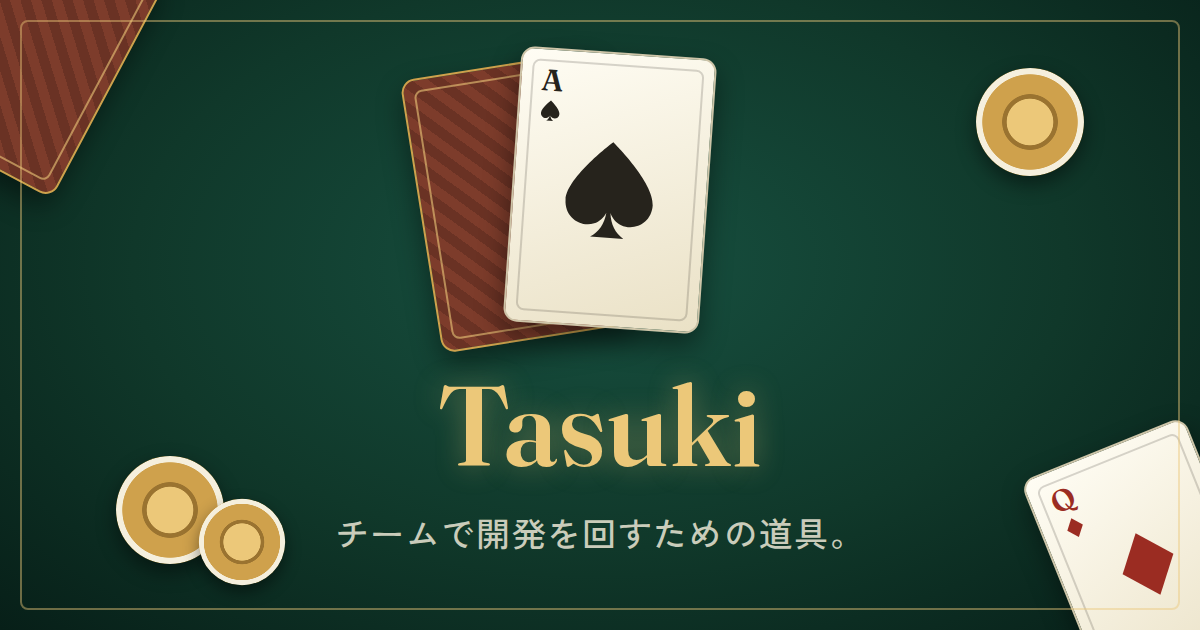
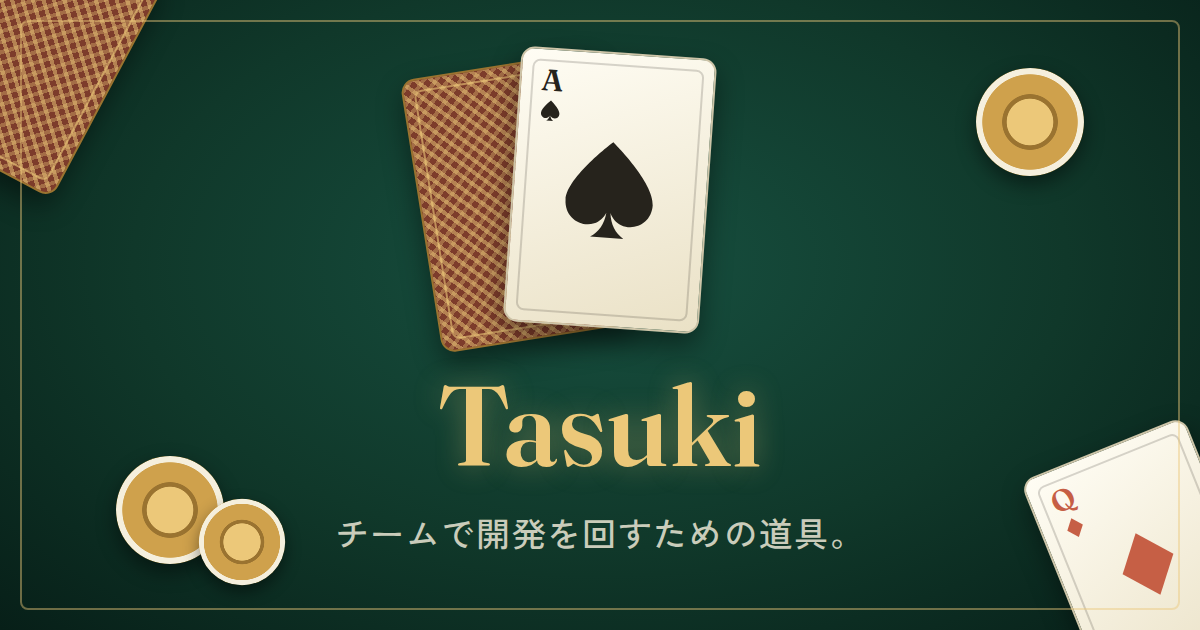
fix: 紹介の画像の色をパレットに揃え、書体の読み込みを確かめる（#434）
- ♦ の赤を --rose に、伏せ札の裏を poker の札の裏と同じ作り（card-back に真鍮の斜め格子）に
- 書き出しで書体が読み込めていなければ止める（fonts.ready は失敗しても解決するため）
- 設計 §4.1 の書き出しスクリプトのパスを実体に合わせる

diff --git a/apps/landing/og/og-image.html b/apps/landing/og/og-image.html
@@ -60,6 +60,7 @@
         /* card-sheen → card-shade・縁は card-edge */
         background: linear-gradient(160deg, #fffdf4, #eae1c6);
         border: 2px solid #cdc4a8;
+        /* 影は色ではなく黒の濃さ（パレットの外だが、色相を持たないので画面の影と同じ扱い） */
         box-shadow: 0 12px 28px rgba(0, 0, 0, 0.45);
         color: #26231c;
         font-family: 'Fraunces', serif;
@@ -105,14 +106,19 @@
         height: 272px;
       }
 
+      /* 赤いスート（rose） */
       .red {
-        color: #9b2c22;
+        color: #c65f45;
       }
 
-      /* 伏せた札の裏（card-back の斜め縞・縁は真鍮） */
+      /* 伏せた札の裏。poker-web の .seat-card-back と同じ作り（card-back の地に gold-edge と
+         gold-glow の斜め格子・縁は gold-deep） */
       .back {
-        background: repeating-linear-gradient(45deg, #7d3c2b 0 10px, #6a3224 10px 20px);
-        border-color: #cfa14c;
+        background:
+          repeating-linear-gradient(45deg, rgba(236, 200, 121, 0.5) 0 4px, transparent 4px 10px),
+          repeating-linear-gradient(-45deg, rgba(236, 200, 121, 0.35) 0 4px, transparent 4px 10px),
+          #7d3c2b;
+        border-color: #9a7330;
       }
 
       .back::before {

diff --git a/docs/superpowers/specs/2026-10-23-site-exterior-design.md b/docs/superpowers/specs/2026-10-23-site-exterior-design.md
@@ -64,7 +64,7 @@ Slack などは貼られたページの `<head>` にある OGP（`og:*`）を読
 - 中央に札 2 枚（伏せ札 `--card-back` と、象牙の A♠）。その下に「Tasuki」（Fraunces・`--gold-bright`・淡い発光）と一行「チームで開発を回すための道具。」（Zen Kaku Gothic New・`--ivory-dim`）
 - 四隅: 左上に伏せ札の端、右下に Q♦ の端、左下と右上に真鍮のチップ
 - 道具の数・名前は入れない（利用者の決定 2）
-- **作り方【判断 S1】**: 絵の正本は HTML（`apps/landing/og/og-image.html`）に置き、`packages/ui` の書体ファイルと色の値をそのまま使う。PNG への書き出しは開発者が手で走らせるスクリプト（`scripts/render-site-images.mjs`）で行い、**書き出した PNG をコミットする**。スクリプトは E2E がすでに持つ Playwright（Chromium）で撮る。ビルドのたびに生成しない（ビルドにブラウザを持ち込まない）。新しい依存は足さない（原則 II）
+- **作り方【判断 S1】**: 絵の正本は HTML（`apps/landing/og/og-image.html`）に置き、`packages/ui` の書体ファイルと色の値をそのまま使う。PNG への書き出しは開発者が手で走らせるスクリプト（`apps/landing/og/render-site-images.mjs`）で行い、**書き出した PNG をコミットする**。スクリプトは E2E がすでに持つ Playwright（Chromium）で撮る。ビルドのたびに生成しない（ビルドにブラウザを持ち込まない）。新しい依存は足さない（原則 II）
 - 書き出した PNG はファイルの大きさを抑える（上限 512KB。Slack・X とも 5MB まで受けるが、軽いほど取得が速い。当初の目安 300KB は、卓のグラデーションで約 420KB になり、圧縮の道具を足さないために上げた）
 
 ### 4.2 紹介の文（利用者の決定 5）
